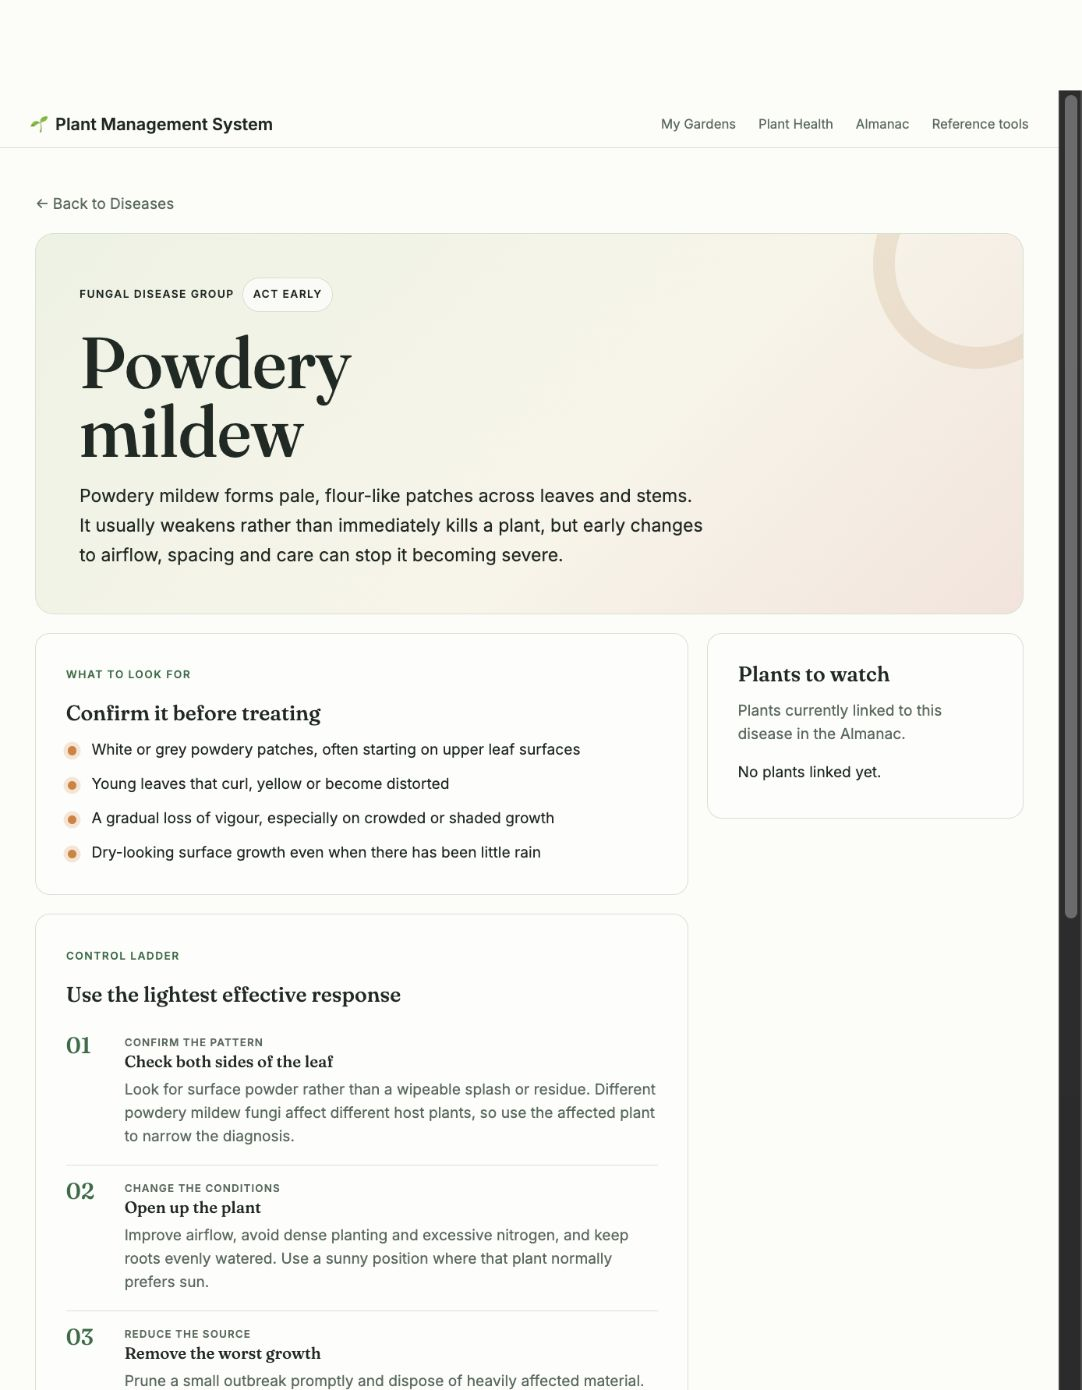
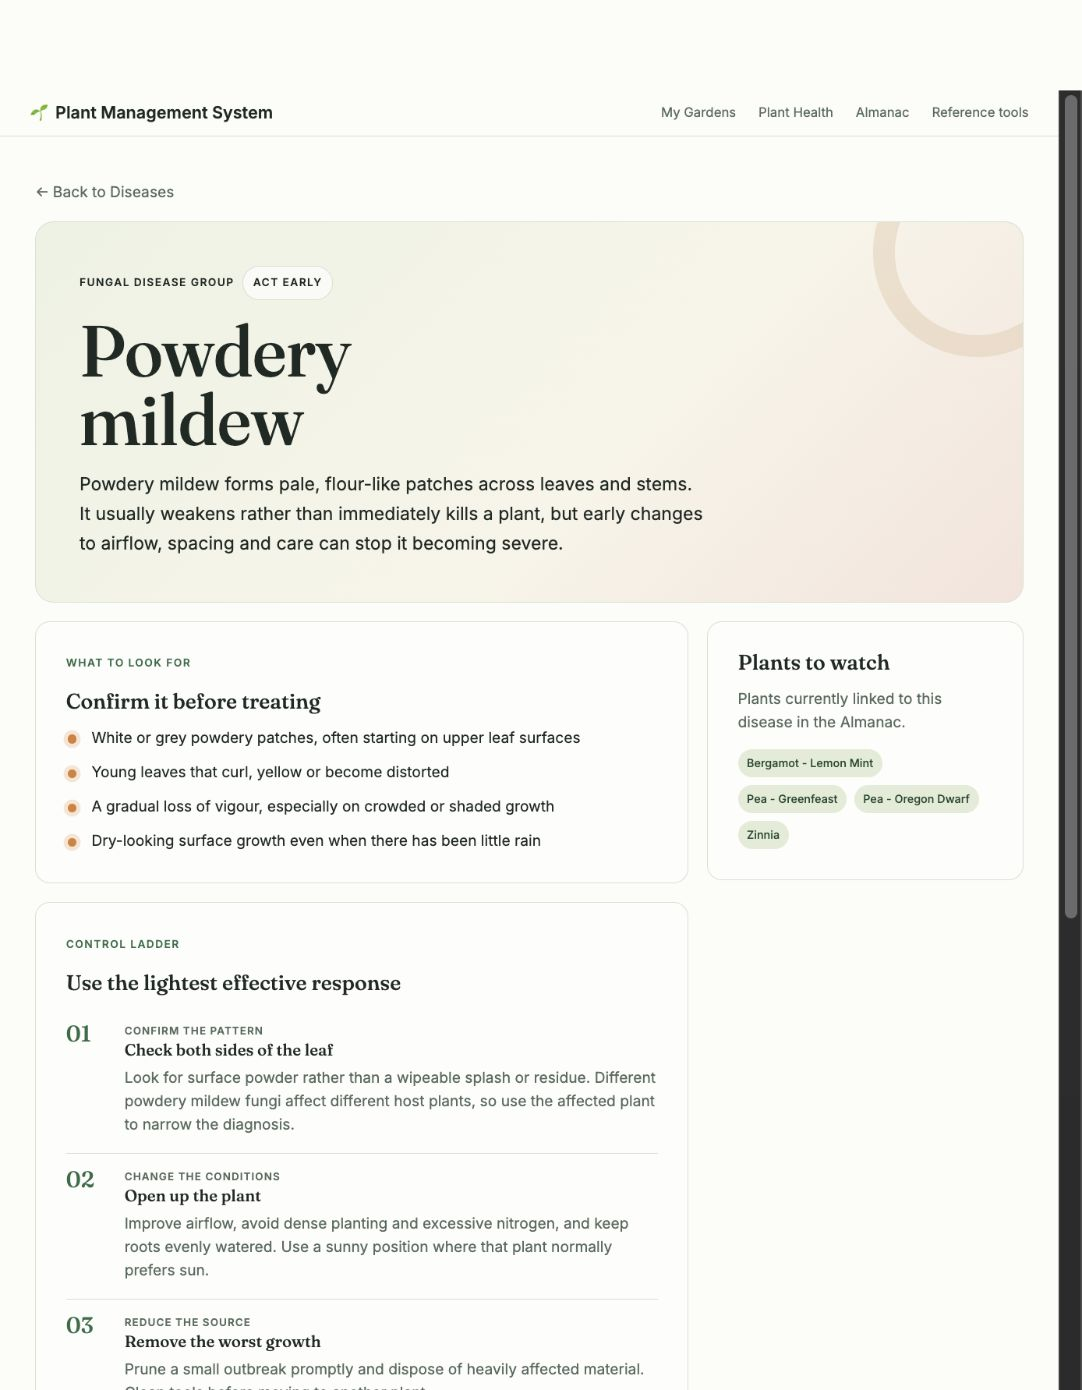
Record the full My Garden catalogue running locally

diff --git a/docs/evidence/amy-release1/rag-docker-transcript.md b/docs/evidence/amy-release1/rag-docker-transcript.md
@@ -1,7 +1,7 @@
-# Agentic loop run `validate-rag-20260930-140158-70dd82`
+# Agentic loop run `validate-rag-20260930-141638-f74b97`
 
 - **service:** almanac
-- **started:** 2026-09-30T14:01:58+00:00
+- **started:** 2026-09-30T14:16:38+00:00
 - **question:** Validate rag integration
 
 Workflow: **Plan → Act → Observe → Adapt**
@@ -21,32 +21,32 @@ Workflow: **Plan → Act → Observe → Adapt**
 - **path:** /integrations/rag
 - **payload:** {'question': 'What helps prevent powdery mildew?'}
 
-## OBSERVE  ·  +6433 ms
+## OBSERVE  ·  +8731 ms
 
 - **iteration:** 1
 - **check:** grounded_answer
 - **passed:** True
 - **attempts:** 1
 - **issues:** []
-- **response:** {'answer': 'Giving plants breathing room by spacing and pruning them to improve airflow helps prevent powdery mildew. This reduces the still, humid microclimate where the disease commonly builds up. Additionally, choosing resistant plant varieties helps prevent powdery mildew, especially when the disease returns annually.', 'citations': [{'chunk_id': 'almanac:disease:1:record', 'excerpt': 'Plant Almanac disease: Powdery mildew.\nA group of fungal diseases that produce pale, flour-like patches on leaves and stems, especially where growth is crowded or air movement is poor.\nIntro: Powdery mildew forms pale, flour-like patches a…', 'recorded_at': None, 'score': 0.85, 'source': 'almanac', 'source_id': 'disease:1', 'title': 'Powdery mildew — disease reference', 'url': 'http://localhost:3000/almanac/diseases/1'}], 'confidence': 'medium', 'confidence_reason': '1 cited passage, top relevance 85%; model rated its evidence strong, but only one passage was cited, so confidence stays at medium.', 'duration_ms': 6366, 'insufficient_context': False, 'model': 'qwen3:4b-instruct', 'model_confidence': 'strong', 'note': None, 'question': 'What helps prevent powdery mildew?', 'retrieval': {'candidates': 1, 'considered': 11, 'mode': 'lexical', 'query_terms': ['help', 'prevent', 'powdery', 'mildew'], 'sources': ['almanac'], 'top_k': 5}}
+- **response:** {'answer': 'Giving plants breathing room by spacing and pruning to improve airflow helps prevent powdery mildew. This reduces the still, humid microclimate where the disease commonly builds up. Additionally, choosing resistant plant varieties and clearing affected plant debris at the end of the season can help prevent recurrence.', 'citations': [{'chunk_id': 'almanac:disease:1:record', 'excerpt': 'Plant Almanac disease: Powdery mildew.\nA group of fungal diseases that produce pale, flour-like patches on leaves and stems, especially where growth is crowded or air movement is poor.\nIntro: Powdery mildew forms pale, flour-like patches a…', 'recorded_at': None, 'score': 0.85, 'source': 'almanac', 'source_id': 'disease:1', 'title': 'Powdery mildew — disease reference', 'url': 'http://localhost:3000/almanac/diseases/1'}], 'confidence': 'medium', 'confidence_reason': '1 cited passage, top relevance 85%; model rated its evidence strong, but only one passage was cited, so confidence stays at medium.', 'duration_ms': 8690, 'insufficient_context': False, 'model': 'qwen3:4b-instruct', 'model_confidence': 'strong', 'note': None, 'question': 'What helps prevent powdery mildew?', 'retrieval': {'candidates': 5, 'considered': 37, 'mode': 'lexical', 'query_terms': ['help', 'prevent', 'powdery', 'mildew'], 'sources': ['almanac'], 'top_k': 5}}
 
-## ACT  ·  +6434 ms
+## ACT  ·  +8734 ms
 
 - **iteration:** 1
 - **check:** unrelated_refusal
 - **path:** /integrations/rag
 - **payload:** {'question': 'Who won the 1986 FIFA World Cup?'}
 
-## OBSERVE  ·  +6459 ms
+## OBSERVE  ·  +8756 ms
 
 - **iteration:** 1
 - **check:** unrelated_refusal
 - **passed:** True
 - **attempts:** 1
 - **issues:** []
-- **response:** {'answer': None, 'citations': [], 'confidence': 'insufficient', 'confidence_reason': 'No indexed passage passed the relevance gate, so the model was not consulted.', 'duration_ms': 1, 'insufficient_context': True, 'model': None, 'model_confidence': None, 'note': 'No indexed passage was relevant enough to this question, so no answer was generated.', 'question': 'Who won the 1986 FIFA World Cup?', 'retrieval': {'candidates': 0, 'considered': 11, 'mode': 'lexical', 'query_terms': ['won', '1986', 'fifa', 'world', 'cup'], 'sources': ['almanac'], 'top_k': 5}}
+- **response:** {'answer': None, 'citations': [], 'confidence': 'insufficient', 'confidence_reason': 'No indexed passage passed the relevance gate, so the model was not consulted.', 'duration_ms': 4, 'insufficient_context': True, 'model': None, 'model_confidence': None, 'note': 'No indexed passage was relevant enough to this question, so no answer was generated.', 'question': 'Who won the 1986 FIFA World Cup?', 'retrieval': {'candidates': 0, 'considered': 37, 'mode': 'lexical', 'query_terms': ['won', '1986', 'fifa', 'world', 'cup'], 'sources': ['almanac'], 'top_k': 5}}
 
-## ADAPT  ·  +6460 ms
+## ADAPT  ·  +8756 ms
 
 - **iteration:** 1
 - **decision:** pass

diff --git a/docs/amy-release1.md b/docs/amy-release1.md
@@ -45,6 +45,13 @@ login and CSRF token. A failed refresh keeps the previous index.
 
 ## Run and demonstrate
 
+The catalogue source is [0melette/my_garden](https://github.com/0melette/my_garden).
+An empty Almanac imports its public snapshot automatically. An existing database
+needs the explicit `import-my-garden` command documented in
+[the Almanac README](../almanac/README.md#import-my-garden-into-an-existing-database).
+This adds missing records and fills blank fields while keeping existing values.
+The app does not automatically publish edits back to the source repository.
+
 Use Python 3.12 and the existing group application. Install the feature and shared
 server requirements in a local environment:
 
@@ -113,17 +120,27 @@ All five application images rebuilt successfully and all seven Compose container
 started. The app runs from the normal `Plant-Management-System` checkout on
 `amy/almanac-release1`.
 
-The existing local catalogue held eight plants and no pest or disease records.
-After a SQLite backup, the three missing public references were added without
-replacing existing records. The shared RAG server indexed these 11 local records.
-Both validation modes then passed through `http://localhost:3000/almanac`:
+The existing local catalogue held only eight starter plants. The explicit import
+from [My Garden commit `4cfa214`](https://github.com/0melette/my_garden/commit/4cfa214fb657f669cd5fd186b17d03af0d8fccd6)
+added the 26 missing plants and filled blank details and missing relationships.
+The database now has all 34 source plants, 34 images, 59 companion links, two pests
+and one disease. My Garden's three pest/disease descriptions and source notes were
+also published in that commit.
+
+The old Docker database still required fields removed from the current models.
+Migration 005 makes those obsolete fields optional while keeping their values.
+A comparison against the SQLite backup confirmed that every pre-import record and
+nonblank value survived; foreign keys are valid. A second import added zero plants.
+
+The shared RAG server indexed all 37 local references. Both validation modes
+then passed through `http://localhost:3000/almanac`:
 MCP returned plant and disease results, RAG answered with a disease citation and
 confidence explanation, and the unrelated question was refused. Ollama, MCP and
 RAG remained local host processes; the container reached them through
 `host.docker.internal` while their listeners stayed on loopback.
 
 The browser confirmed the disease guide no longer shows the requested Sources
-card. AI answer citations are still shown. All 61 Almanac tests passed again with
+card. AI answer citations are still shown. All 65 Almanac tests passed again with
 MCP and RAG disabled.
 
 Evidence: [Docker MCP JSON](evidence/amy-release1/mcp-docker.json),
@@ -132,6 +149,8 @@ Evidence: [Docker MCP JSON](evidence/amy-release1/mcp-docker.json),
 [RAG transcript](evidence/amy-release1/rag-docker-transcript.md).
 
 ![Updated disease page](evidence/amy-release1/disease-docker.png)
+
+![My Garden catalogue in Docker](evidence/amy-release1/catalogue-docker.png)
 
 Amy's existing assigned workflow is `.github/workflows/plant_almanac.yml` (see
 `.github/README.md`), now labelled **Plant Almanac (Amy)**. It runs on Amy branches
@@ -151,6 +170,8 @@ in the report. A GitHub run must be cited separately from local test results.
 | `3f5de7f` | Almanac host-service connection settings in Compose |
 | `a062b00` | Shared local validation modes and Amy's CI configuration |
 | `a05643c` | Removed the Sources card from pest and disease guides |
+| `ee89935` | Fixed an intermittent pipe error in the existing integration smoke check |
+| `ef85a35`, `7f574b1` | Safe explicit catalogue import, legacy database compatibility and preservation tests |
 
 ## Report paragraph to append — Amy only
 

diff --git a/docs/evidence/amy-release1/mcp-docker-transcript.md b/docs/evidence/amy-release1/mcp-docker-transcript.md
@@ -1,7 +1,7 @@
-# Agentic loop run `validate-mcp-20260930-140158-6315a0`
+# Agentic loop run `validate-mcp-20260930-141638-99aa8b`
 
 - **service:** almanac
-- **started:** 2026-09-30T14:01:58+00:00
+- **started:** 2026-09-30T14:16:38+00:00
 - **question:** Validate mcp integration
 
 Workflow: **Plan → Act → Observe → Adapt**
@@ -21,23 +21,23 @@ Workflow: **Plan → Act → Observe → Adapt**
 - **path:** /integrations/mcp
 - **payload:** {'tool': 'search_almanac_catalogue', 'query': 'tomato', 'kind': 'all', 'limit': 5}
 
-## OBSERVE  ·  +77 ms
+## OBSERVE  ·  +87 ms
 
 - **iteration:** 1
 - **check:** plant_search
 - **passed:** True
 - **attempts:** 1
 - **issues:** []
-- **response:** {'is_error': False, 'structured_content': {'items': [{'id': 1, 'key': 'tomato', 'kind': 'plant', 'name': 'Tomato', 'path': '/almanac/plants/tomato', 'uri': 'almanac://plants/tomato'}], 'limit': 5, 'next_offset': None, 'offset': 0, 'total': 1}, 'text': '{\n  "items": [\n    {\n      "kind": "plant",\n      "id": 1,\n      "key": "tomato",\n      "name": "Tomato",\n      "uri": "almanac://plants/tomato",\n      "path": "/almanac/plants/tomato"\n    }\n  ],\n  "total": 1,\n  "limit": 5,\n  "offset": 0,\n  "next_offset": null\n}', 'tool': 'search_almanac_catalogue'}
+- **response:** {'is_error': False, 'structured_content': {'items': [{'id': 1, 'key': 'tomato', 'kind': 'plant', 'name': 'Tomato', 'path': '/almanac/plants/tomato', 'uri': 'almanac://plants/tomato'}, {'id': 33, 'key': 'tomato-black-krim', 'kind': 'plant', 'name': 'Tomato - Black Krim', 'path': '/almanac/plants/tomato-black-krim', 'uri': 'almanac://plants/tomato-black-krim'}], 'limit': 5, 'next_offset': None, 'offset': 0, 'total': 2}, 'text': '{\n  "items": [\n    {\n      "kind": "plant",\n      "id": 1,\n      "key": "tomato",\n      "name": "Tomato",\n      "uri": "almanac://plants/tomato",\n      "path": "/almanac/plants/tomato"\n    },\n    {\n      "kind": "plant",\n      "id": 33,\n      "key": "tomato-black-krim",\n      "name": "Tomato - Black Krim",\n      "uri": "almanac://plants/tomato-black-krim",\n      "path": "/almanac/plants/tomato-black-krim"\n    }\n  ],\n  "total": 2,\n  "limit": 5,\n  "offset": 0,\n  "next_offset": null\n}', 'tool': 'search_almanac_catalogue'}
 
-## ACT  ·  +77 ms
+## ACT  ·  +87 ms
 
 - **iteration:** 1
 - **check:** disease_search
 - **path:** /integrations/mcp
 - **payload:** {'tool': 'search_almanac_catalogue', 'query': 'powdery mildew', 'kind': 'disease', 'limit': 5}
 
-## OBSERVE  ·  +104 ms
+## OBSERVE  ·  +112 ms
 
 - **iteration:** 1
 - **check:** disease_search
@@ -46,7 +46,7 @@ Workflow: **Plan → Act → Observe → Adapt**
 - **issues:** []
 - **response:** {'is_error': False, 'structured_content': {'items': [{'id': 1, 'key': '1', 'kind': 'disease', 'name': 'Powdery mildew', 'path': '/almanac/diseases/1', 'uri': 'almanac://diseases/1'}], 'limit': 5, 'next_offset': None, 'offset': 0, 'total': 1}, 'text': '{\n  "items": [\n    {\n      "kind": "disease",\n      "id": 1,\n      "key": "1",\n      "name": "Powdery mildew",\n      "uri": "almanac://diseases/1",\n      "path": "/almanac/diseases/1"\n    }\n  ],\n  "total": 1,\n  "limit": 5,\n  "offset": 0,\n  "next_offset": null\n}', 'tool': 'search_almanac_catalogue'}
 
-## ADAPT  ·  +104 ms
+## ADAPT  ·  +112 ms
 
 - **iteration:** 1
 - **decision:** pass
